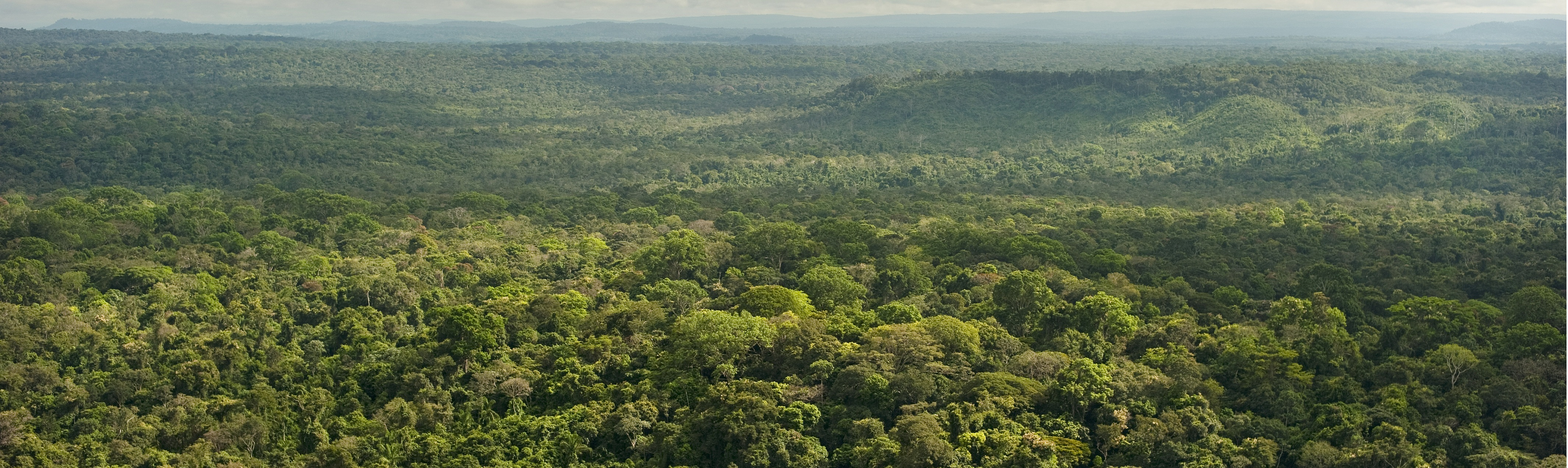
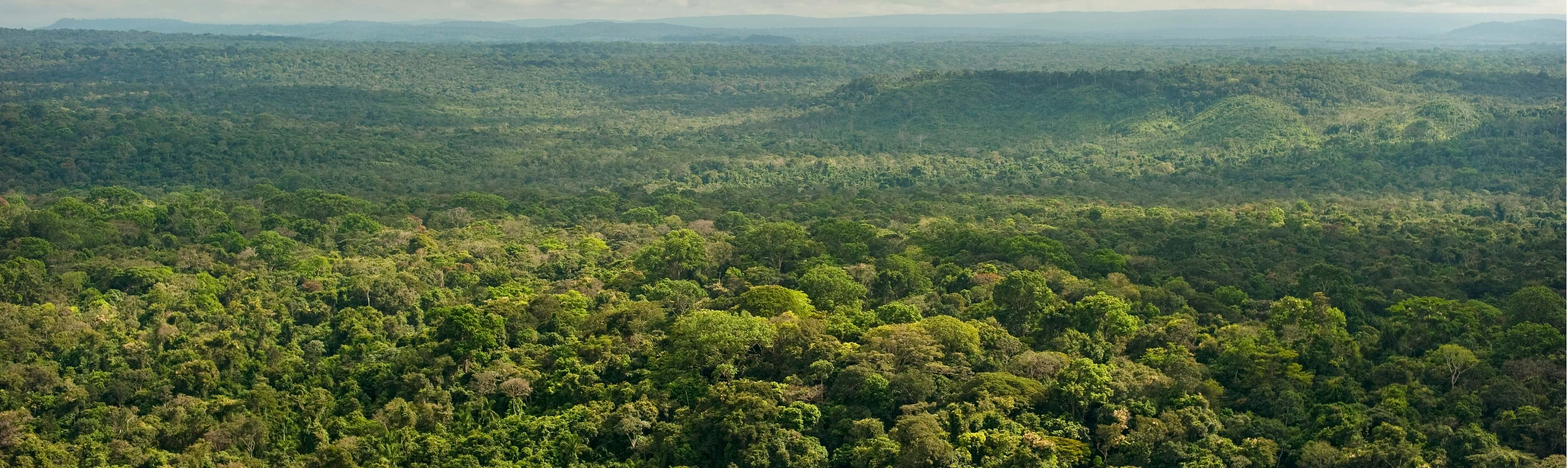
Imagens comprimidas

Changed region(s): [[0.5932, 0.6735, 0.6244, 0.7041], [0.4995, 0.6429, 0.5308, 0.6735], [0.4683, 0.6735, 0.4995, 0.7041]]

diff --git a/index.html b/index.html
@@ -52,7 +52,7 @@
           planeta e para as gerações futuras.</p>
       </div>
       <div class="col-md-6">
-        <img src="images/imagem-ods.jpg" class="img-fluid" alt="Imagem relacionada à ODS 15">
+        <img src="images/imagem-ods.png" class="img-fluid" alt="Imagem relacionada à ODS 15">
       </div>
     </div>
   </section>

diff --git a/README.md b/README.md
@@ -1,5 +1,5 @@
 <p width="100%" align="center">
-    <img src="Devops.png" width="200px">
+    <img src="images/imagem-devops.png" width="200px">
 </p>
 
 <h1 id = "projectDescription" align="center">Pipeline CI/CD</h1>
